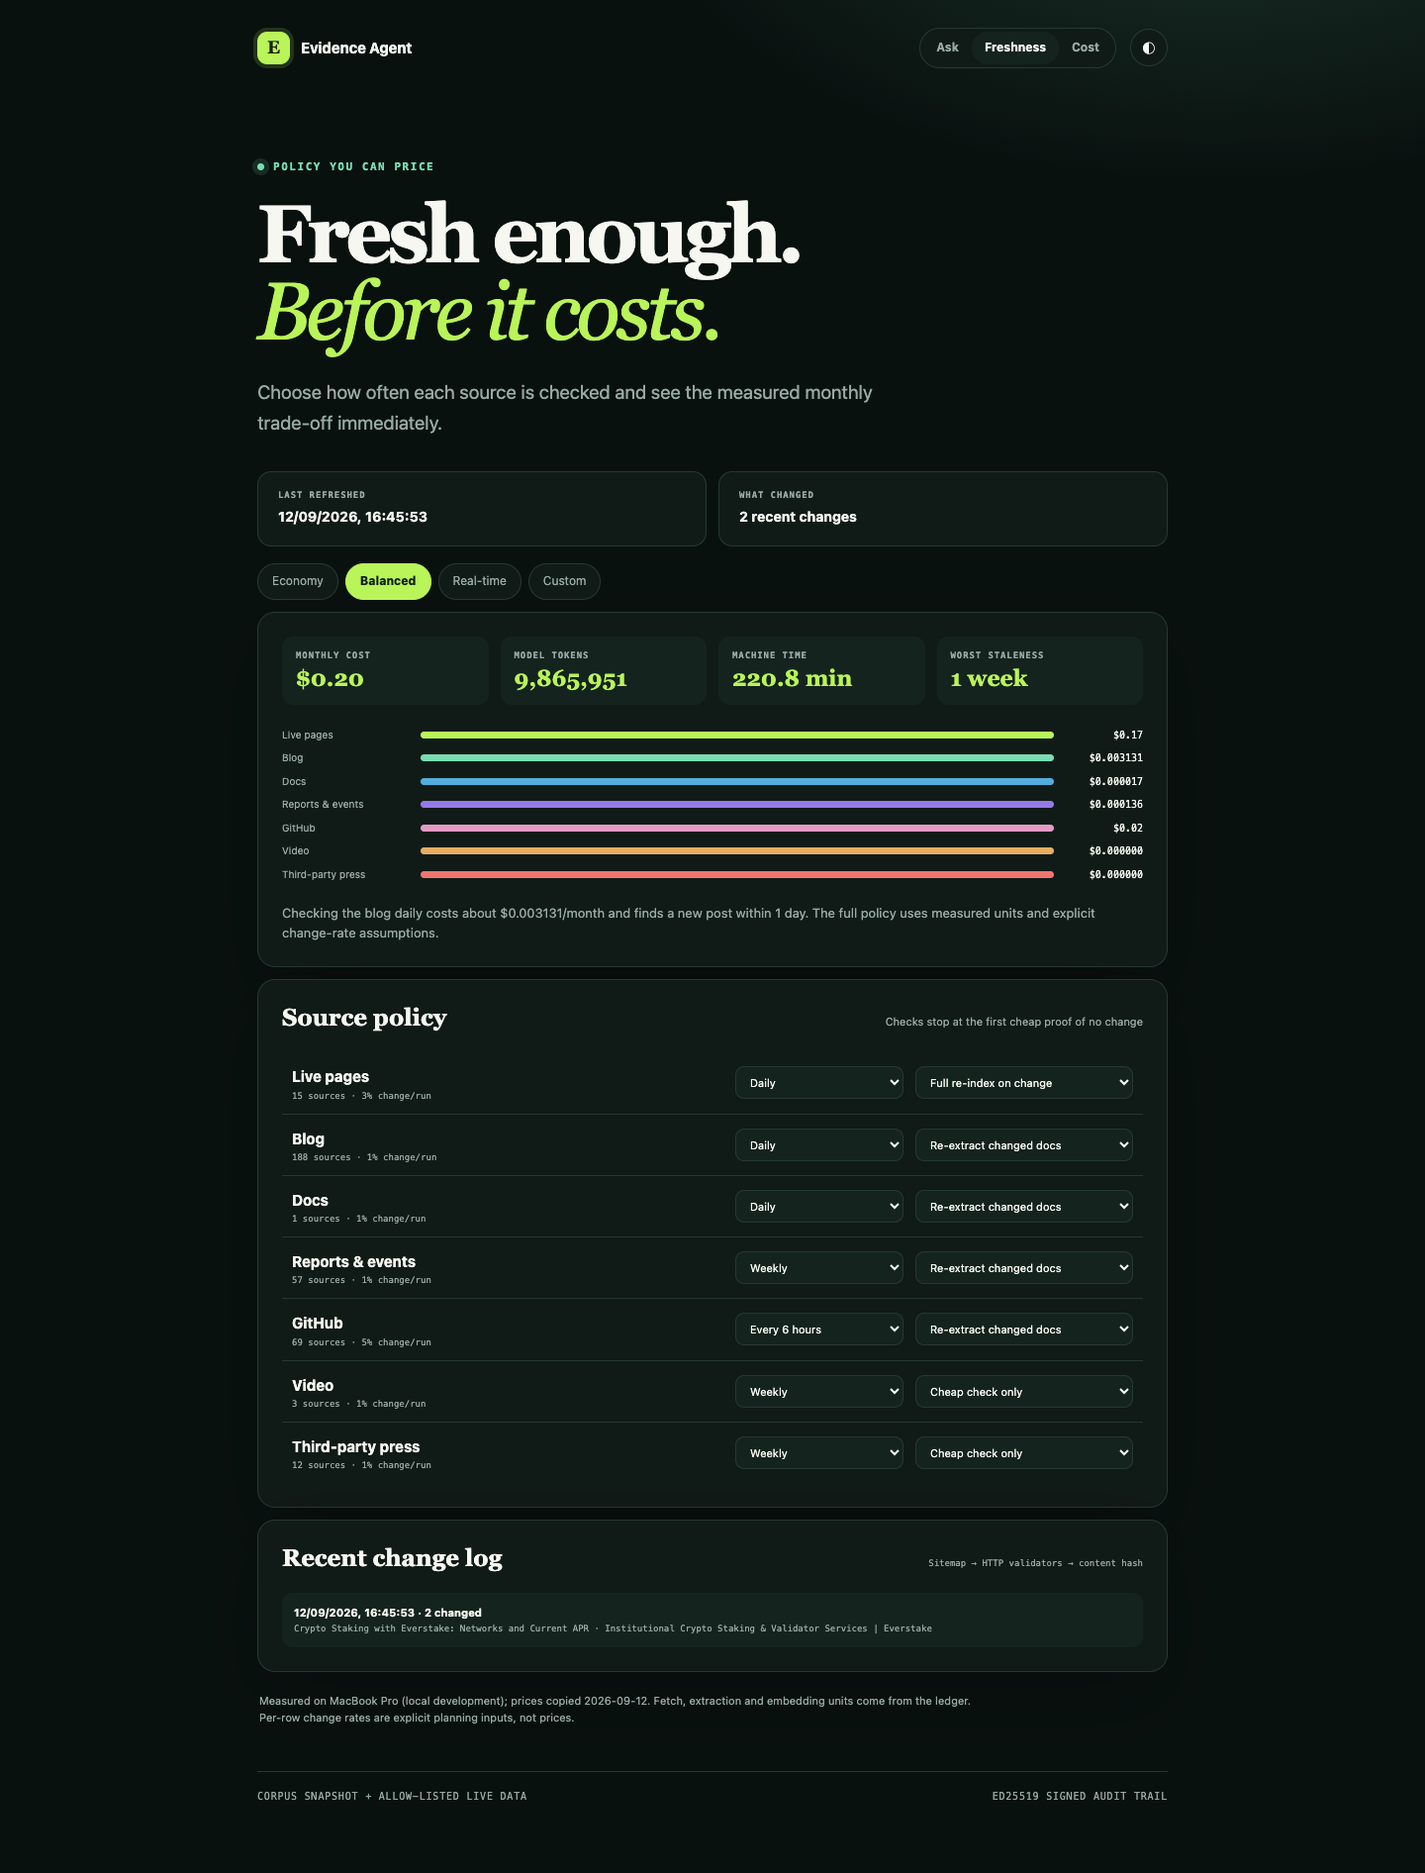
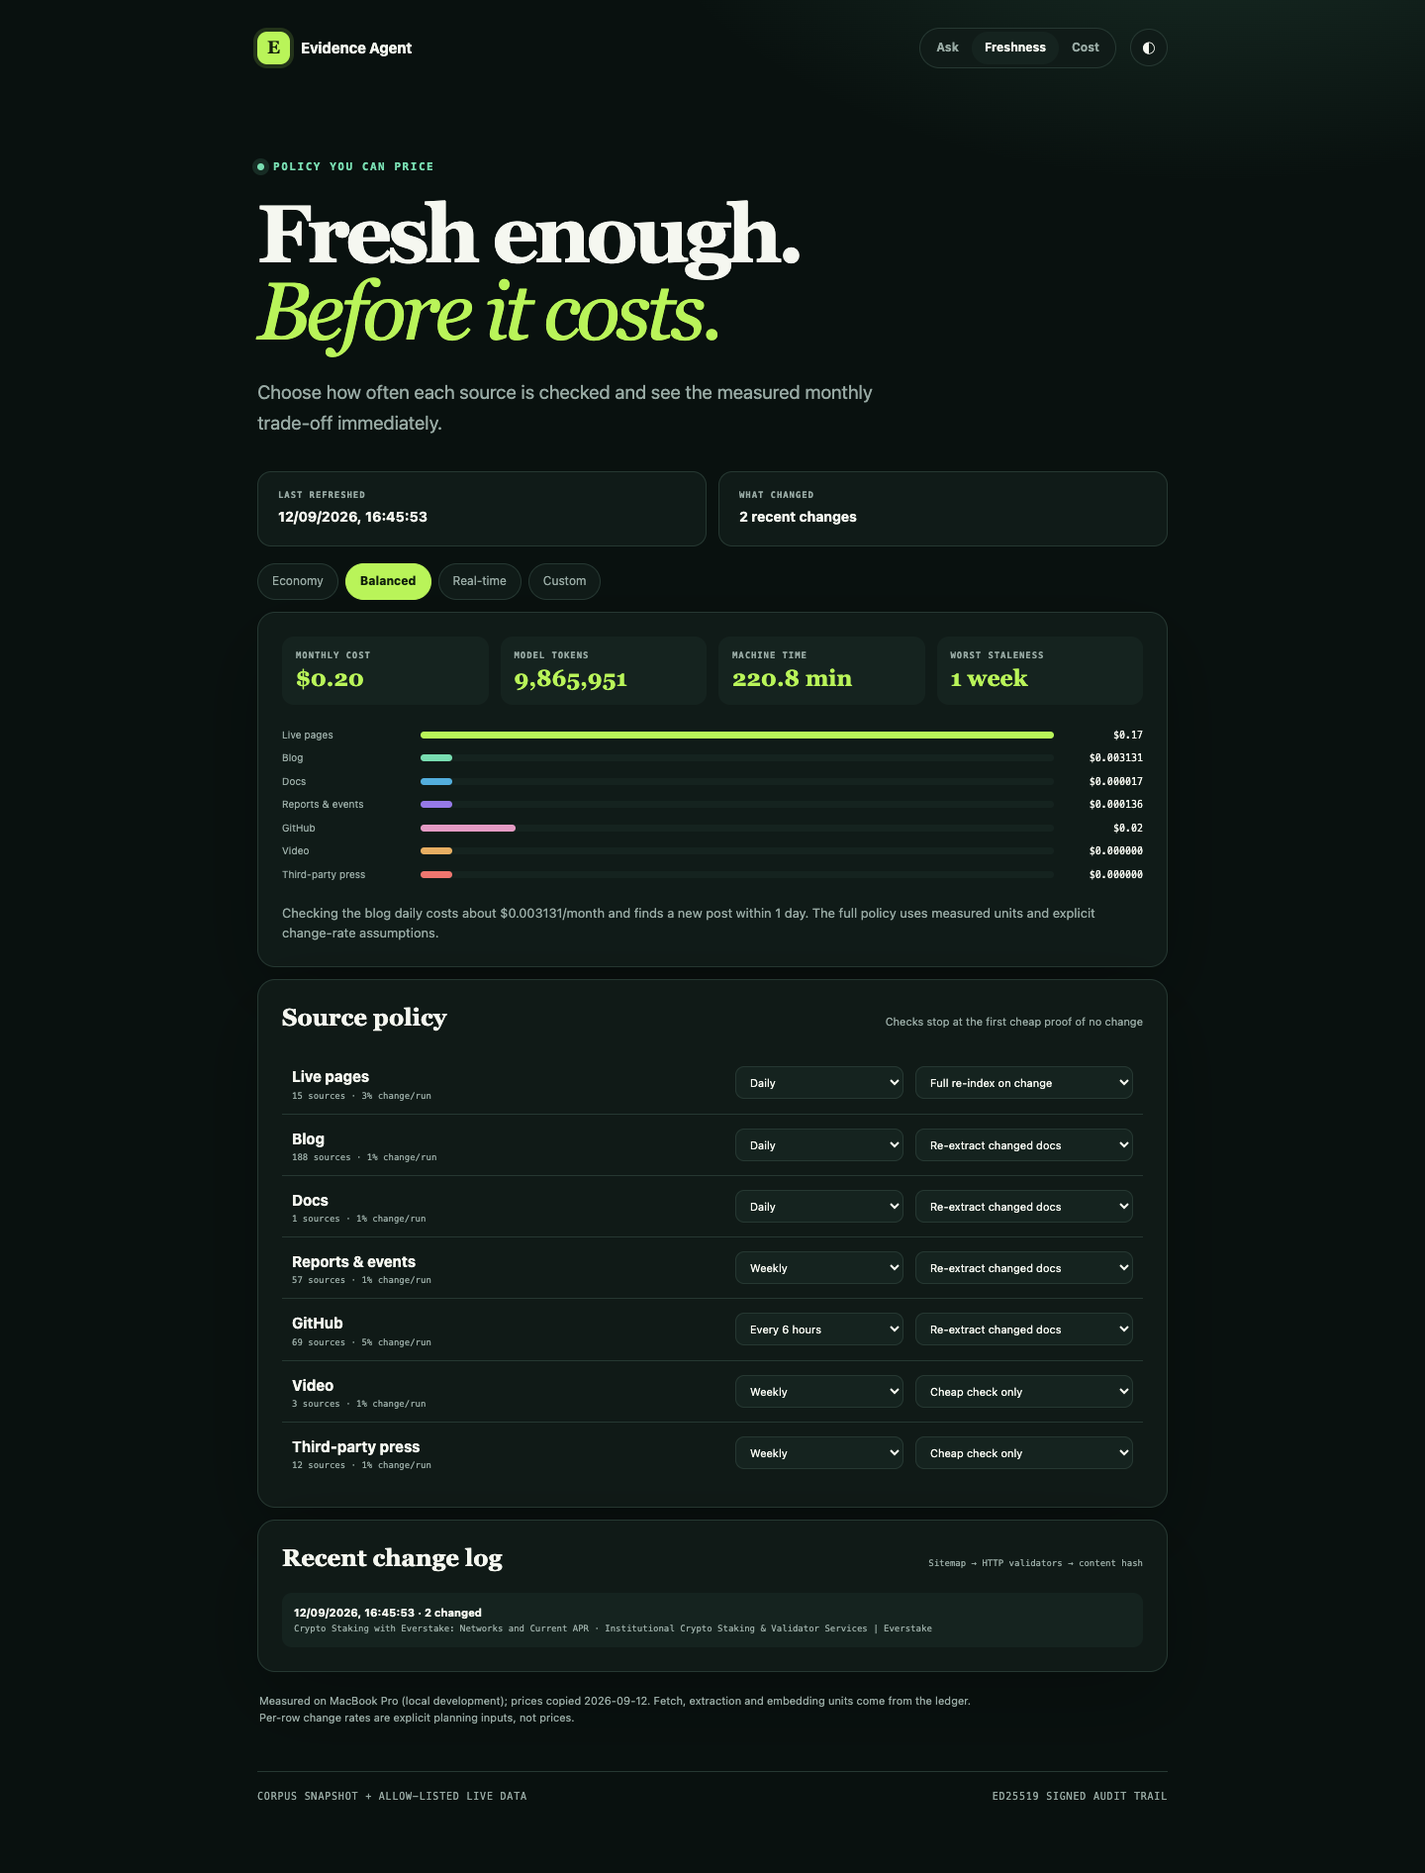
fix: render freshness cost proportions under CSP

Changed region(s): [[0.3125, 0.4054, 0.75, 0.4678]]

diff --git a/codex-work/web/style.css b/codex-work/web/style.css
@@ -3,7 +3,7 @@
 *{box-sizing:border-box}[hidden]{display:none!important}html{scroll-behavior:smooth}body{margin:0;min-height:100vh;background:radial-gradient(900px 550px at 85% -10%,color-mix(in srgb,var(--accent2) 18%,transparent),transparent 68%),var(--bg);color:var(--ink);font:15px/1.55 Inter,ui-sans-serif,-apple-system,BlinkMacSystemFont,"Segoe UI",sans-serif;transition:background .25s,color .25s}button,select,textarea{font:inherit}main{width:min(920px,calc(100% - 36px));margin:auto;padding:28px 0 70px}nav{display:flex;align-items:center;justify-content:space-between}.brand{display:flex;gap:11px;align-items:center;color:var(--ink);text-decoration:none;font-weight:720;letter-spacing:-.01em}.brand-mark{display:grid;place-items:center;width:33px;height:33px;border-radius:10px;background:var(--accent);color:#14200c;font:800 18px/1 Georgia,serif;box-shadow:0 0 0 4px color-mix(in srgb,var(--accent) 15%,transparent)}.nav-actions,.nav-links{display:flex;align-items:center}.nav-actions{gap:14px}.nav-links{padding:3px;border:1px solid var(--line);border-radius:99px;background:var(--surface)}.nav-links button{border:0;border-radius:99px;padding:7px 13px;background:transparent;color:var(--muted);font-size:12px;font-weight:700;cursor:pointer}.nav-links button.active{background:var(--surface2);color:var(--ink)}.icon-button{width:38px;height:38px;border:1px solid var(--line);border-radius:50%;background:var(--surface);color:var(--ink);cursor:pointer}.icon-button:hover{border-color:var(--accent2)}header{padding:94px 0 44px}.eyebrow{display:flex;align-items:center;gap:9px;color:var(--accent2);font:700 11px/1.1 ui-monospace,SFMono-Regular,monospace;letter-spacing:.14em}.eyebrow i,.result-head i{display:inline-block;width:7px;height:7px;border-radius:50%;background:currentColor;box-shadow:0 0 0 5px color-mix(in srgb,currentColor 13%,transparent)}h1{font:650 clamp(48px,8vw,82px)/.95 Georgia,"Times New Roman",serif;letter-spacing:-.052em;margin:23px 0 28px;max-width:800px}h1 em{font-weight:400;color:var(--accent);font-style:italic}header p{max-width:630px;color:var(--muted);font-size:19px;line-height:1.6;margin:0}form,#result{border:1px solid var(--line);background:color-mix(in srgb,var(--surface) 93%,transparent);border-radius:21px;box-shadow:var(--shadow);backdrop-filter:blur(18px)}form{padding:25px}label{display:block;font-weight:720;margin-bottom:11px;font-size:13px}textarea{display:block;width:100%;min-height:112px;padding:4px 2px;resize:vertical;border:0;outline:0;background:transparent;color:var(--ink);font-size:20px;line-height:1.5}textarea::placeholder{color:color-mix(in srgb,var(--muted) 68%,transparent)}.controls{display:flex;justify-content:space-between;align-items:center;gap:12px;padding-top:18px;border-top:1px solid var(--line)}select{border:0;background:transparent;color:var(--muted);cursor:pointer;outline:none}button{transition:transform .18s,border-color .18s,background .18s}#submit{display:flex;align-items:center;gap:28px;border:0;border-radius:12px;padding:13px 17px 13px 20px;background:var(--accent);color:#10200b;font-weight:800;cursor:pointer}#submit:hover{transform:translateY(-1px)}#submit:disabled{opacity:.65;cursor:wait;transform:none}#submit b{font-size:19px}#result{margin-top:20px;padding:25px;scroll-margin-top:20px}.result-head{display:flex;justify-content:space-between;gap:15px;color:var(--muted);font:700 11px/1.2 ui-monospace,SFMono-Regular,monospace;text-transform:uppercase;letter-spacing:.09em}.result-head>span:first-child{display:flex;align-items:center;gap:10px}.working{color:var(--accent2)!important}.working i{animation:pulse 1.3s infinite}.supported{color:var(--accent)!important}.abstained{color:#e7ae62!important}.error{color:#ef766f!important}@keyframes pulse{50%{opacity:.35;transform:scale(.7)}}.pipeline{display:grid;gap:0;margin:24px 0}.pipeline-item{position:relative;display:grid;grid-template-columns:34px 1fr;gap:12px;min-height:54px;color:var(--muted)}.pipeline-item:not(:last-child):before{content:"";position:absolute;left:12px;top:28px;bottom:0;width:1px;background:var(--line)}.step-icon{display:grid;place-items:center;width:25px;height:25px;border:1px solid var(--line);border-radius:50%;background:var(--surface);font:700 10px/1 ui-monospace,monospace}.pipeline-item.active .step-icon{border-color:var(--accent2);color:var(--accent2);box-shadow:0 0 0 4px color-mix(in srgb,var(--accent2) 10%,transparent)}.pipeline-item.done .step-icon{border-color:color-mix(in srgb,var(--accent2) 55%,var(--line));color:var(--accent2)}.pipeline-item strong,.pipeline-item small{display:block}.pipeline-item strong{color:var(--ink);font-size:13px}.pipeline-item small{max-width:690px;overflow:hidden;text-overflow:ellipsis;white-space:nowrap;font:11px/1.5 ui-monospace,monospace;margin-top:2px}#answer-card{border-top:1px solid var(--line);padding-top:24px}#answer{font:25px/1.48 Georgia,serif;letter-spacing:-.015em;margin-bottom:30px;white-space:pre-wrap}.source-heading{display:flex;justify-content:space-between;align-items:center}.source-heading h2{font-size:13px;margin:0}.source-heading span{color:var(--muted);font:11px ui-monospace,monospace}#sources{list-style:none;padding:0;margin:12px 0 0;display:grid;gap:8px}#sources li{position:relative;padding:12px 14px 12px 38px;border:1px solid var(--line);border-radius:12px;background:var(--surface2)}#sources li:before{content:"↗";position:absolute;left:14px;top:13px;color:var(--accent2)}#sources a{display:block;color:var(--ink);font-weight:680;text-decoration:none;font-size:13px}#sources a:hover{color:var(--accent2)}#sources span{display:block;color:var(--muted);font:10px/1.5 ui-monospace,monospace;text-transform:uppercase;margin-top:3px}.audit{display:flex;align-items:center;gap:12px;margin-top:12px;border:1px solid color-mix(in srgb,var(--accent2) 42%,var(--line));border-radius:12px;padding:12px 14px;color:var(--ink);text-decoration:none}.seal{display:grid;place-items:center;width:28px;height:28px;border-radius:50%;background:color-mix(in srgb,var(--accent2) 16%,transparent);color:var(--accent2);font-weight:800}.audit>span:nth-child(2){flex:1}.audit strong,.audit small{display:block}.audit strong{font-size:12px}.audit small{color:var(--muted);font:10px ui-monospace,monospace}.audit b{color:var(--accent2)}details{margin-top:20px;color:var(--muted);font-size:12px}summary{cursor:pointer;font-weight:700}.receipt{border:1px solid var(--line);border-radius:12px;overflow:hidden}.receipt>summary{display:flex;align-items:center;justify-content:space-between;padding:12px 14px;list-style:none}.receipt>summary::-webkit-details-marker{display:none}.receipt>summary span strong,.receipt>summary span small{display:block}.receipt>summary span strong{color:var(--ink)}.receipt>summary span small{font:10px ui-monospace,monospace;margin-top:2px}.receipt-step{display:grid;grid-template-columns:24px 1fr auto;gap:10px;align-items:center;padding:11px 14px;border-top:1px solid var(--line)}.receipt-number{display:grid;place-items:center;width:21px;height:21px;border-radius:50%;background:var(--surface2);font:700 9px ui-monospace,monospace}.receipt-step strong,.receipt-step small,.receipt-amount strong,.receipt-amount small{display:block}.receipt-step strong{color:var(--ink);font-size:11px}.receipt-step small,.receipt-amount small{font:9px ui-monospace,monospace}.receipt-amount{text-align:right}.receipt-amount strong{color:var(--accent2);font:700 11px ui-monospace,monospace}.receipt-total{padding:12px 14px;background:var(--surface2);color:var(--ink);font:700 10px ui-monospace,monospace}.decision{padding:0 2px}.examples{display:flex;align-items:flex-start;gap:28px;padding:25px 2px;margin-top:20px}.examples>span{flex:none;color:var(--muted);font-size:11px;text-transform:uppercase;letter-spacing:.1em;padding-top:8px}.examples div{display:flex;flex-wrap:wrap;gap:8px}.examples button{border:1px solid var(--line);border-radius:99px;padding:8px 12px;background:transparent;color:var(--muted);cursor:pointer;font-size:12px}.examples button:hover{border-color:var(--accent2);color:var(--ink)}footer{display:flex;justify-content:space-between;border-top:1px solid var(--line);padding-top:18px;margin-top:46px;color:var(--muted);font:10px/1.4 ui-monospace,monospace;text-transform:uppercase;letter-spacing:.08em}
 
 .cost-header{padding-bottom:34px}.cost-hero{display:grid;grid-template-columns:1fr 1fr;gap:12px}.cost-hero>div,.cost-panel{border:1px solid var(--line);background:color-mix(in srgb,var(--surface) 94%,transparent);box-shadow:var(--shadow);border-radius:18px}.cost-hero>div{padding:24px}.cost-hero small{display:block;color:var(--muted);font:700 10px ui-monospace,monospace;letter-spacing:.12em}.cost-hero strong{display:block;margin:9px 0 2px;color:var(--accent);font:600 43px Georgia,serif;letter-spacing:-.04em}.cost-hero span{color:var(--muted);font-size:12px}.cost-panel{margin-top:12px;padding:24px}.panel-title{display:flex;align-items:baseline;justify-content:space-between;margin-bottom:22px}.panel-title h2{margin:0;font:600 24px Georgia,serif}.panel-title span{color:var(--muted);font-size:11px}.bar-block+ .bar-block{margin-top:24px}.bar-block>label{color:var(--muted);font:700 10px ui-monospace,monospace;text-transform:uppercase;letter-spacing:.08em}.stacked-bar{display:flex;gap:3px;height:18px;margin:8px 0;border-radius:99px;overflow:hidden;background:var(--surface2)}.stacked-bar span{min-width:3px}.bar-legend{display:flex;flex-wrap:wrap;gap:6px 14px}.bar-legend span{display:flex;align-items:center;gap:5px;color:var(--muted);font-size:9px}.bar-legend i{width:7px;height:7px;border-radius:2px}.bar-legend b{color:var(--ink)}.tone-0{background:#b9f459}.tone-1{background:#78ddb1}.tone-2{background:#53aedd}.tone-3{background:#9679e8}.tone-4{background:#e49bc4}.tone-5{background:#e7ae62}.tone-6{background:#ef766f}.share-1{width:5%}.share-2{width:10%}.share-3{width:15%}.share-4{width:20%}.share-5{width:25%}.share-6{width:30%}.share-7{width:35%}.share-8{width:40%}.share-9{width:45%}.share-10{width:50%}.share-11{width:55%}.share-12{width:60%}.share-13{width:65%}.share-14{width:70%}.share-15{width:75%}.share-16{width:80%}.share-17{width:85%}.share-18{width:90%}.share-19{width:95%}.share-20{width:100%}.stage-head,.stage-row>summary{display:grid;grid-template-columns:minmax(210px,1.7fr) 1fr 90px 80px;gap:12px;align-items:center}.stage-head{padding:0 12px 9px;color:var(--muted);font:700 9px ui-monospace,monospace;text-transform:uppercase}.stage-row{margin:0;border-top:1px solid var(--line)}.stage-row>summary{padding:14px 12px;list-style:none}.stage-row>summary::-webkit-details-marker{display:none}.stage-row>summary span{font:11px ui-monospace,monospace}.stage-row>summary span:first-child strong,.stage-row>summary span:first-child small{display:block}.stage-row>summary span:first-child strong{color:var(--ink);font:700 12px Inter,sans-serif}.stage-row>summary span:first-child small{font-size:9px;margin-top:2px}.stage-runs{padding:4px 12px 12px}.stage-runs div{padding:8px 10px;border-radius:8px;background:var(--surface2);font:9px/1.5 ui-monospace,monospace}.stage-runs div+div{margin-top:4px}.cost-method{max-width:720px;margin:20px 2px;color:var(--muted);font-size:11px}
-.fresh-status{display:grid;grid-template-columns:1fr 1fr;gap:12px;margin-bottom:12px}.fresh-status>div{padding:18px 20px;border:1px solid var(--line);border-radius:14px;background:var(--surface)}.fresh-status small,.fresh-results small{display:block;color:var(--muted);font:700 9px ui-monospace,monospace;letter-spacing:.1em}.fresh-status strong{display:block;margin-top:6px;font-size:14px}.preset-buttons{display:flex;gap:7px;overflow:auto;padding:5px 0 12px}.preset-buttons button{border:1px solid var(--line);border-radius:99px;padding:8px 14px;background:var(--surface);color:var(--muted);cursor:pointer;font-size:12px;white-space:nowrap}.preset-buttons button.active{background:var(--accent);border-color:var(--accent);color:#10200b;font-weight:800}.fresh-calculator{padding:24px;border:1px solid var(--line);border-radius:18px;background:var(--surface);box-shadow:var(--shadow)}.fresh-results{display:grid;grid-template-columns:repeat(4,1fr);gap:12px}.fresh-results>div{padding:14px;border-radius:12px;background:var(--surface2)}.fresh-results strong{display:block;margin-top:5px;color:var(--accent);font:600 23px Georgia,serif}.fresh-chart{display:grid;gap:8px;margin-top:23px}.fresh-chart>div{display:grid;grid-template-columns:130px 1fr 80px;gap:10px;align-items:center;font-size:10px;color:var(--muted)}.fresh-chart i{height:7px;border-radius:99px;background:var(--surface2);overflow:hidden}.fresh-chart b{display:block;height:100%;border-radius:99px}.fresh-chart strong{text-align:right;color:var(--ink);font:10px ui-monospace,monospace}.fresh-sentence{margin:21px 0 0;color:var(--muted);font-size:13px}.fresh-row{display:grid;grid-template-columns:minmax(180px,1fr) 170px 220px;gap:12px;align-items:center;padding:13px 10px;border-top:1px solid var(--line)}.fresh-row:first-child{border-top:0}.fresh-row strong,.fresh-row small{display:block}.fresh-row small{color:var(--muted);font:9px ui-monospace,monospace;margin-top:2px}.fresh-row select{padding:8px 10px;border:1px solid var(--line);border-radius:9px;background:var(--surface2);color:var(--ink);font-size:11px}.change-panel #change-log{display:grid;gap:7px}.change-panel #change-log>div{padding:11px 12px;border-radius:10px;background:var(--surface2)}.change-panel strong,.change-panel span{display:block}.change-panel strong{font-size:11px}.change-panel span,.change-panel p{margin:2px 0 0;color:var(--muted);font:9px/1.5 ui-monospace,monospace}
+.fresh-status{display:grid;grid-template-columns:1fr 1fr;gap:12px;margin-bottom:12px}.fresh-status>div{padding:18px 20px;border:1px solid var(--line);border-radius:14px;background:var(--surface)}.fresh-status small,.fresh-results small{display:block;color:var(--muted);font:700 9px ui-monospace,monospace;letter-spacing:.1em}.fresh-status strong{display:block;margin-top:6px;font-size:14px}.preset-buttons{display:flex;gap:7px;overflow:auto;padding:5px 0 12px}.preset-buttons button{border:1px solid var(--line);border-radius:99px;padding:8px 14px;background:var(--surface);color:var(--muted);cursor:pointer;font-size:12px;white-space:nowrap}.preset-buttons button.active{background:var(--accent);border-color:var(--accent);color:#10200b;font-weight:800}.fresh-calculator{padding:24px;border:1px solid var(--line);border-radius:18px;background:var(--surface);box-shadow:var(--shadow)}.fresh-results{display:grid;grid-template-columns:repeat(4,1fr);gap:12px}.fresh-results>div{padding:14px;border-radius:12px;background:var(--surface2)}.fresh-results strong{display:block;margin-top:5px;color:var(--accent);font:600 23px Georgia,serif}.fresh-chart{display:grid;gap:8px;margin-top:23px}.fresh-chart>div{display:grid;grid-template-columns:130px 1fr 80px;gap:10px;align-items:center;font-size:10px;color:var(--muted)}.fresh-chart i{display:block;width:auto;height:7px;border-radius:99px;background:var(--surface2);overflow:hidden}.fresh-chart b{display:block;height:100%;border-radius:99px}.fresh-chart strong{text-align:right;color:var(--ink);font:10px ui-monospace,monospace}.fresh-sentence{margin:21px 0 0;color:var(--muted);font-size:13px}.fresh-row{display:grid;grid-template-columns:minmax(180px,1fr) 170px 220px;gap:12px;align-items:center;padding:13px 10px;border-top:1px solid var(--line)}.fresh-row:first-child{border-top:0}.fresh-row strong,.fresh-row small{display:block}.fresh-row small{color:var(--muted);font:9px ui-monospace,monospace;margin-top:2px}.fresh-row select{padding:8px 10px;border:1px solid var(--line);border-radius:9px;background:var(--surface2);color:var(--ink);font-size:11px}.change-panel #change-log{display:grid;gap:7px}.change-panel #change-log>div{padding:11px 12px;border-radius:10px;background:var(--surface2)}.change-panel strong,.change-panel span{display:block}.change-panel strong{font-size:11px}.change-panel span,.change-panel p{margin:2px 0 0;color:var(--muted);font:9px/1.5 ui-monospace,monospace}
 @media(max-width:620px){main{width:min(100% - 24px,920px);padding-top:18px}.brand>span:last-child{display:none}.nav-actions{gap:8px}.nav-links button{padding:7px 10px}header{padding:68px 3px 34px}h1{font-size:50px}header p{font-size:16px}form,#result{padding:18px;border-radius:17px}.controls{align-items:stretch;flex-direction:column}select{padding:7px 0}#submit{justify-content:space-between;width:100%}.result-head{align-items:flex-start;flex-direction:column}.pipeline-item small{max-width:calc(100vw - 115px)}#answer{font-size:21px}.receipt-step{grid-template-columns:22px 1fr}.receipt-amount{grid-column:2;text-align:left}.examples{display:block}.examples>span{display:block;margin-bottom:12px}.cost-hero,.fresh-status{grid-template-columns:1fr}.fresh-results{grid-template-columns:1fr 1fr}.fresh-calculator{padding:16px}.fresh-row{grid-template-columns:1fr}.fresh-chart>div{grid-template-columns:90px 1fr 72px}.cost-panel{padding:17px}.panel-title{display:block}.panel-title span{display:block;margin-top:4px}.stage-head{display:none}.stage-row>summary{grid-template-columns:1fr auto}.stage-row>summary span:nth-child(2){display:none}.stage-row>summary span:nth-child(3),.stage-row>summary span:nth-child(4){text-align:right}.stage-row>summary span:nth-child(4){grid-column:2}.bar-legend{display:grid;grid-template-columns:1fr 1fr}footer{gap:12px;flex-direction:column}}
 @media(prefers-reduced-motion:reduce){*{scroll-behavior:auto!important;transition:none!important;animation:none!important}}
 

diff --git a/codex-work/web/app.js b/codex-work/web/app.js
@@ -197,7 +197,8 @@ function updateFreshnessCalculation() {
   const maximum = Math.max(...result.rows.map(row => row.cost), 0.000001);
   result.rows.forEach((row, index) => {
     const item = document.createElement('div');
-    item.innerHTML = `<span>${freshnessData.calculator.source_labels[row.name]}</span><i><b class="tone-${index % 7}" style="width:${Math.max(1, row.cost / maximum * 100)}%"></b></i><strong>${money(row.cost)}</strong>`;
+    const share = Math.max(1, Math.round(row.cost / maximum * 20));
+    item.innerHTML = `<span>${freshnessData.calculator.source_labels[row.name]}</span><i><b class="tone-${index % 7} share-${share}"></b></i><strong>${money(row.cost)}</strong>`;
     chart.append(item);
   });
   const blog = result.rows.find(row => row.name === 'blog');
